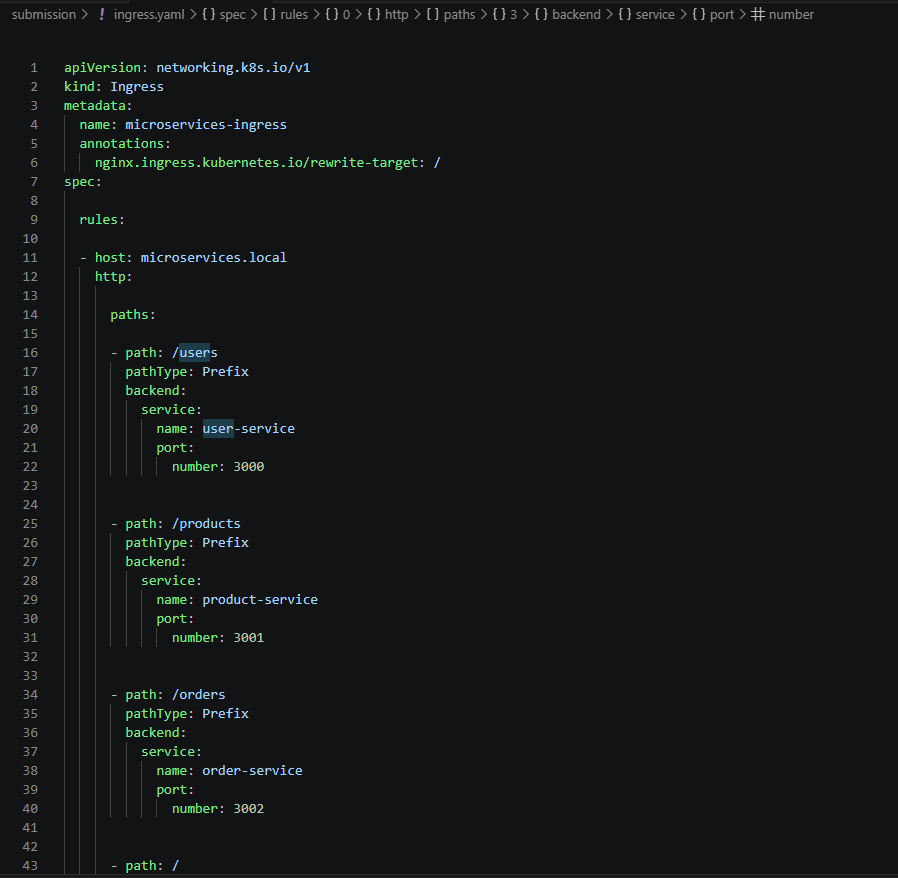
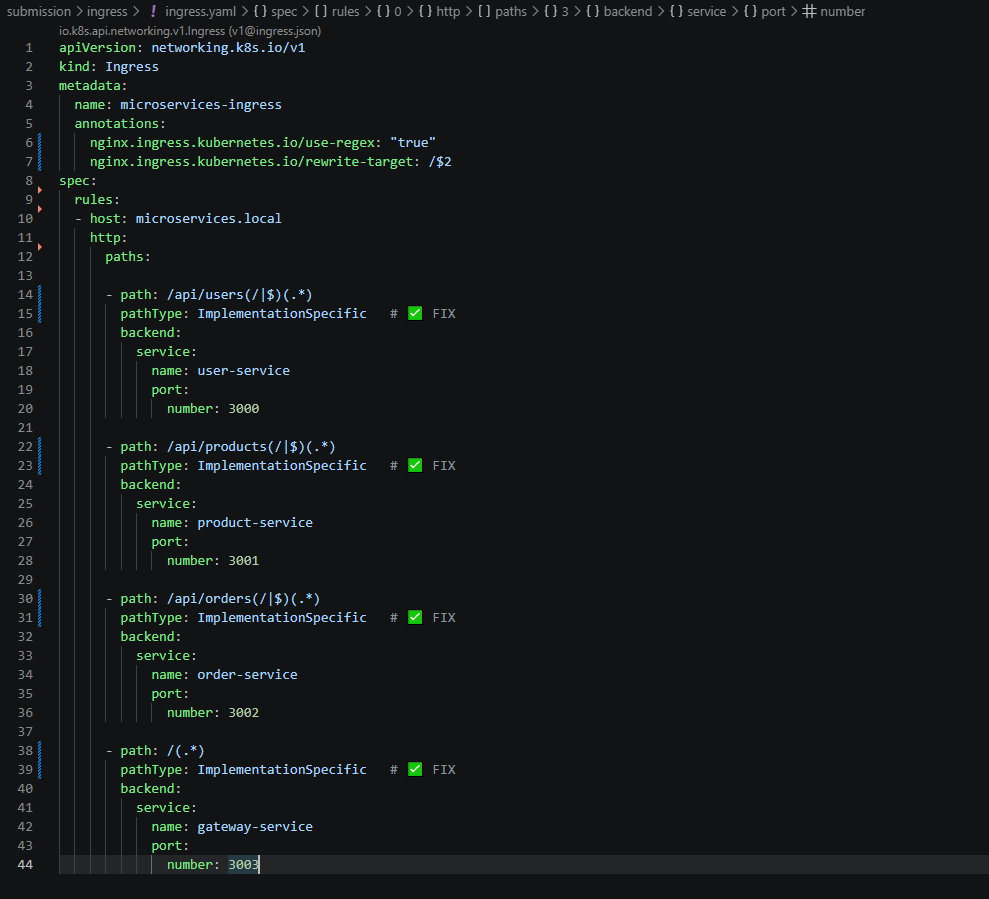
finalized

diff --git a/README.md b/README.md
@@ -1,2 +1,275 @@
-# Kubernetes-Deployement
-Skill Test 2
+Kubernetes Microservices Deployment using Minikube
+
+Objective
+Deploy a microservices application on Kubernetes using Minikube, ensuring proper service communication and configuration.
+
+
+Microservices	    Port	    Purpose
+User Service	    3000	    Provides user-related APIs
+Product Service	    3001	    Provides product-related APIs
+Order Service	    3002	    Provides order-related APIs
+Gateway Service	    3003	    Acts as the API gateway and communicates with other services
+
+The main objectives of this project are:
+•	Containerize the Node.js microservices using Docker. 
+•	Create Kubernetes Deployment resources for all four services. 
+•	Create Kubernetes ClusterIP Services for internal service discovery. 
+•	Configure resource requests and limits. 
+•	Configure environment variables for service-to-service communication. 
+•	Configure liveness and readiness probes. 
+•	Deploy all services on a local Minikube Kubernetes cluster. 
+•	Verify that all microservices are running. 
+•	Test service accessibility using Kubernetes port forwarding. 
+•	Validate service communication using Kubernetes logs and API responses.
+
+Application Architecture
+The application contains four services:
+
+ 
+Each service runs inside its own Kubernetes Pod.
+
+Kubernetes Services provide stable DNS names that allow the microservices to communicate with one another.
+
+Repository Structure
+ 
+
+
+Prerequisites
+The following software are required:
+•	Docker Desktop 
+•	Minikube 
+•	kubectl 
+•	Node.js 
+•	Visual Studio Code 
+•	
+Docker Desktop is used as the container runtime and Minikube is used to provide the local Kubernetes cluster.
+
+Execution Procedure
+Installation & Verification of Docker Desktop :
+Before executing minikube , we have to download the docker desktop application and install it on the local machine. 
+To verify that Docker has been installed and is running , Open Powershell with elevated privileges and run the following command. 
+docker  - -version
+docker  info
+ 
+
+Verification of Minikube installation :
+Check the installed Minikube version by running 
+minikube version
+
+Start Minikube using Docker as the driver
+minikube start  - -driver=docker
+
+Verify the Minikube cluster
+minikube status
+
+ 
+ 
+
+Verifying Kubernetes 
+Check the Kubernetes noes by running 
+Kubectl get nodes
+ 
+This confirms that the local Kubernetes cluster is operational.
+
+
+
+
+
+
+
+
+
+Creating the Deployments and Submissions Directories 
+ 
+ 
+
+Creating the YAML files for all four services
+ 
+ 
+ 
+ 
+ 
+Buiding the Docker images and verifying them
+Navigate into the Microservices Directory of the Project and run the following command to build the docker images of all the services using the docker file of each service individually.
+docker build -t user-service:latest ./user-service
+docker build -t product-service:latest ./product-service
+docker build -t order-service:latest ./order-service
+docker build -t gateway-service:latest ./gateway-service
+docker images
+ 
+
+Load Docker Images into Minikube
+Because the Kubernetes cluster is running inside Minikube, the locally built Docker images need to be made available to Minikube.
+ 
+This makes the application images available to the Minikube Kubernetes node.’
+This creates four Service Manifests 
+
+Starting and deploying the Kubernetes Services
+To start the Kubernetes we use :
+minikube start
+ 
+
+
+Navigate into the submission directory and run the following 
+kubectl apply – f deployements/
+kubectl apply – f services/
+ 
+Run “ kubectl get deployments ” to verify the creation.
+
+Verifying the Pods 
+Check all application Pods by running the command 
+kubectl get pods -w
+ 
+
+Verifying the Kubernetes Services
+To do this run :
+kubectl get services
+ 
+Test Services Using API Testing & Port Forwarding
+kubectl port-forward service/user-service 3000:3000
+kubectl port-forward service/product-service 3001:3001
+kubectl port-forward service/order-service 3002:3002
+kubectl port-forward service/gateway-service 3003:3003
+
+http://localhost:3000/health
+http://localhost:3001/health
+http://localhost:3002/health
+http://localhost:3003/health
+    
+    
+
+
+
+Checking Application Logs
+
+The logs can be viewed by running the following:
+
+kubectl logs deployment/gateway-service
+kubectl logs deployment/user-service
+kubectl logs deployment/product-service
+kubectl logs deployment/order-service
+
+ 
+
+
+Troubleshooting
+
+ImagePullBackOff / ErrImagePull
+
+If a pod shows “ ImagePullBackOff “ verify that the image exists by : 
+
+docker images 
+
+Then load it into Minikube:
+
+minikube image load user-service:latest
+
+Repeat for the other services.
+
+If this does not work, go into the docker image of each service and set 
+
+imagePullPolicy: Never
+
+in the YAML file.
+
+
+
+
+  
+
+
+CrashLoopBackOff
+
+Check the Pod logs:
+
+kubectl logs <pod-name>
+
+A common cause during development was a missing npm start script.
+
+The package.json should contain:
+"scripts": {
+  "start": "node app.js"
+}
+
+
+After modifying the application or package.json, rebuild the Docker image and reload it into Minikube:
+
+docker build -t user-service:latest ./user-service
+
+minikube image load user-service:latest
+
+
+Bonus – Ingress Implementation
+
+Creating the ingress directory and the ingress YAML file
+
+We create the /ingress directory within the submissions directory and create the ingress.yaml file. 
+Creating the ingress addon and verifying the running state
+
+Add the ingress add on to the minikube by running :
+
+minikube addons enable ingress
+
+and verify it being ready by running :
+
+kubectl get pods -n ingress-nginx
+
+  
+
+
+Making the change in the hosts file to map the minikube ip to the microservices.local
+
+Verifying the minikube ip :
+
+ 
+
+Mapping the ip to microservices.local
+Notepad “C:\Windows\System32\drivers\etc\hosts”
+
+ 
+
+Verify that ingress is running
+
+ 
+
+Start the minikube Tunnel
+
+Run the command :
+minikube tunnel
+
+ 
+
+Executing the ingress deployment via microservices.local
+
+Run the command on any local browser:
+
+http://microservices.local/api/users/health
+
+This concludes the successful deployment via ingress.
+
+
+
+
+Conclusion
+
+This project successfully demonstrates the deployment of a Node.js microservices application on a local Kubernetes cluster using Minikube.
+
+The implementation includes:
+•	Docker containerization 
+•	Four independent Node.js microservices 
+•	Kubernetes Deployments 
+•	Kubernetes ClusterIP Services 
+•	Kubernetes service discovery 
+•	Environment variable configuration 
+•	Liveness probes 
+•	Readiness probes 
+•	Local Minikube deployment 
+•	Port-forward based service testing 
+•	Application log validation 
+
+Additionally, the optional Ingress configuration was successfully implemented, enabling unified external access through a single host (microservices.local) with proper path-based routing and URL rewriting. This demonstrated how real-world applications can be exposed cleanly and efficiently using an API gateway pattern.
+Overall, the project highlights a complete end-to-end workflow—from containerization to orchestration and external access—providing a strong foundation in Kubernetes-based microservices deployment and management.
+
+The completed deployment provides a foundation for running the microservices application in Kubernetes and demonstrates the fundamental concepts of container orchestration, service discovery, health monitoring, and resource management.
+
+
